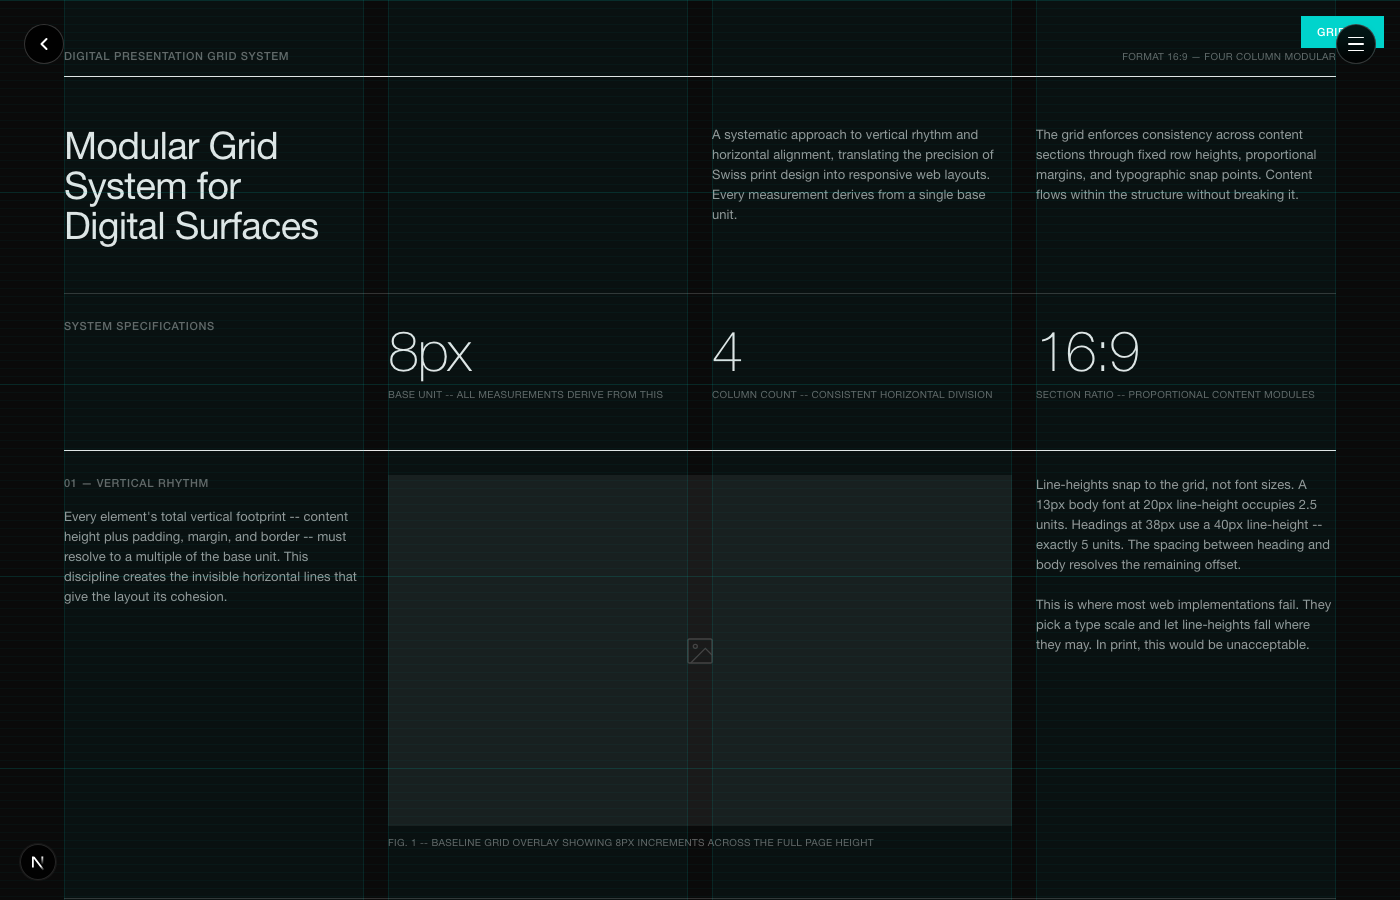
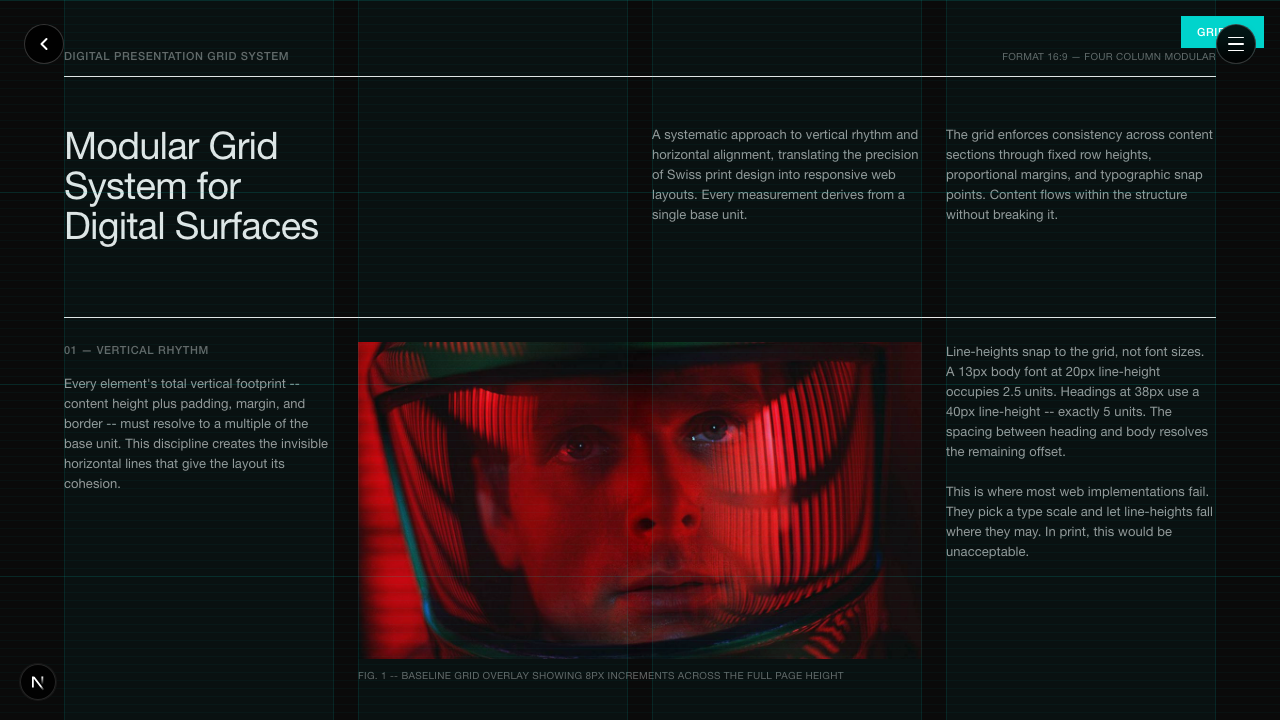
Add real images to Modular Grid experiment
Replace all placeholder SVG icons with cinematic photography from image
library. Astronaut helmet (red glow) as hero, astronaut face (light streaks)
and Blade Runner eye reflection for landscape slots, Blade Runner woman,
colored lighting profile, and red silhouette for portrait slots. Retake
gallery thumbnail screenshot to reflect the updated design.

diff --git a/app/design-experiments/modular-grid/page.tsx b/app/design-experiments/modular-grid/page.tsx
@@ -45,8 +45,6 @@ const C = {
   textMuted: '#666',
   divider: '#e8e8e8',
   dividerSubtle: '#333',
-  placeholder: '#1a1a1a',
-  placeholderStroke: '#444',
   accent: '#00d4cc',
   gridColumn: 'rgba(0, 212, 204, 0.04)',
   gridColumnBorder: 'rgba(0, 212, 204, 0.1)',
@@ -194,46 +192,6 @@ const Spacer = ({ units = 3, span = 4 }: { units?: number; span?: number }) => {
   return <div style={{ gridColumn: `span ${col(span, columns)}`, height: u(units) }} />
 }
 
-const ImagePlaceholder = ({
-  aspectRatio = '4/3',
-  height,
-  span = 1,
-  caption,
-  style,
-}: {
-  aspectRatio?: string
-  height?: number
-  span?: number
-  caption?: string
-  style?: React.CSSProperties
-}) => {
-  const { columns } = useGrid()
-  return (
-    <div style={{ gridColumn: `span ${col(span, columns)}`, ...style }}>
-      <div
-        style={{
-          width: '100%',
-          ...(height ? { height } : { aspectRatio }),
-          background: C.placeholder,
-          display: 'flex',
-          alignItems: 'center',
-          justifyContent: 'center',
-        }}
-      >
-        <svg width="32" height="32" viewBox="0 0 24 24" fill="none" stroke={C.placeholderStroke} strokeWidth="1">
-          <rect x="3" y="3" width="18" height="18" rx="1" />
-          <circle cx="8.5" cy="8.5" r="1.5" />
-          <path d="M21 15l-5-5L5 21" />
-        </svg>
-      </div>
-      {caption && (
-        <p style={{ ...TYPE.caption, fontFamily: FONT.body, color: C.textMuted, marginTop: u(1), marginBottom: 0 }}>
-          {caption}
-        </p>
-      )}
-    </div>
-  )
-}
 
 // Helper: responsive span for inline gridColumn styles
 function Span({ n, children, style }: { n: number; children: React.ReactNode; style?: React.CSSProperties }) {
@@ -377,11 +335,18 @@ export default function ModularGridSystem() {
                   that give the layout its cohesion.
                 </p>
               </SectionLabel>
-              <ImagePlaceholder
-                span={2}
-                aspectRatio="16/9"
-                caption="Fig. 1 -- Baseline grid overlay showing 8px increments across the full page height"
-              />
+              <div style={{ gridColumn: `span ${col(2, gridConfig.columns)}` }}>
+                <div style={{ width: '100%', aspectRatio: '16/9', overflow: 'hidden' }}>
+                  <img
+                    src="/images/astronaut-helmet-red-glow.jpg"
+                    alt="Astronaut helmet with red glow"
+                    style={{ width: '100%', height: '100%', objectFit: 'cover', display: 'block' }}
+                  />
+                </div>
+                <p style={{ ...TYPE.caption, fontFamily: FONT.body, color: C.textMuted, marginTop: u(1), marginBottom: 0 }}>
+                  Fig. 1 -- Baseline grid overlay showing 8px increments across the full page height
+                </p>
+              </div>
               <Span n={gridConfig.columns === 2 ? 2 : 1} style={{ marginTop: gridConfig.columns === 2 ? u(3) : 0 }}>
                 <p style={{ ...TYPE.body, fontFamily: FONT.body, margin: 0, color: C.textSecondary }}>
                   Line-heights snap to the grid, not font sizes. A 13px body font at 20px line-height
@@ -493,28 +458,47 @@ export default function ModularGridSystem() {
                   Captions use the smallest type size in the system and align to the same baseline.
                 </p>
               </SectionLabel>
-              <ImagePlaceholder
-                span={1}
-                height={gridConfig.columns === 2 ? undefined : u(24)}
-                aspectRatio="16/9"
-                caption="Fig. 2 -- Single column, fixed height"
-              />
-              <ImagePlaceholder
-                span={gridConfig.columns === 2 ? 1 : 2}
-                height={gridConfig.columns === 2 ? undefined : u(24)}
-                aspectRatio="16/9"
-                caption="Fig. 3 -- Two columns, same fixed height"
-              />
+              <div style={{ gridColumn: `span ${col(1, gridConfig.columns)}` }}>
+                <div style={{ width: '100%', ...(gridConfig.columns === 2 ? { aspectRatio: '16/9' } : { height: u(24) }), overflow: 'hidden' }}>
+                  <img src="/images/astronaut-face-light-streaks.jpg" alt="Astronaut face with prismatic light streaks" style={{ width: '100%', height: '100%', objectFit: 'cover', display: 'block' }} />
+                </div>
+                <p style={{ ...TYPE.caption, fontFamily: FONT.body, color: C.textMuted, marginTop: u(1), marginBottom: 0 }}>
+                  Fig. 2 -- Single column, fixed height
+                </p>
+              </div>
+              <div style={{ gridColumn: `span ${col(gridConfig.columns === 2 ? 1 : 2, gridConfig.columns)}` }}>
+                <div style={{ width: '100%', ...(gridConfig.columns === 2 ? { aspectRatio: '16/9' } : { height: u(24) }), overflow: 'hidden' }}>
+                  <img src="/images/blade-runner-eye-reflection.jpg" alt="Blade Runner eye with galaxy reflection" style={{ width: '100%', height: '100%', objectFit: 'cover', display: 'block' }} />
+                </div>
+                <p style={{ ...TYPE.caption, fontFamily: FONT.body, color: C.textMuted, marginTop: u(1), marginBottom: 0 }}>
+                  Fig. 3 -- Two columns, same fixed height
+                </p>
+              </div>
             </Grid>
           </Section>
 
           <Section style={{ paddingTop: u(3) }}>
             <Grid>
               <Spacer span={1} units={0} />
-              <ImagePlaceholder span={1} aspectRatio="3/4" caption="Fig. 4 -- Portrait" />
-              <ImagePlaceholder span={1} aspectRatio="3/4" caption="Fig. 5 -- Portrait" />
+              <div style={{ gridColumn: 'span 1' }}>
+                <div style={{ width: '100%', aspectRatio: '3/4', overflow: 'hidden' }}>
+                  <img src="/images/blade-runner-woman-portrait.jpg" alt="Blade Runner woman portrait" style={{ width: '100%', height: '100%', objectFit: 'cover', display: 'block' }} />
+                </div>
+                <p style={{ ...TYPE.caption, fontFamily: FONT.body, color: C.textMuted, marginTop: u(1), marginBottom: 0 }}>Fig. 4 -- Portrait</p>
+              </div>
+              <div style={{ gridColumn: 'span 1' }}>
+                <div style={{ width: '100%', aspectRatio: '3/4', overflow: 'hidden' }}>
+                  <img src="/images/man-profile-colored-lighting.jpeg" alt="Man profile in colored lighting" style={{ width: '100%', height: '100%', objectFit: 'cover', display: 'block' }} />
+                </div>
+                <p style={{ ...TYPE.caption, fontFamily: FONT.body, color: C.textMuted, marginTop: u(1), marginBottom: 0 }}>Fig. 5 -- Portrait</p>
+              </div>
               {gridConfig.columns > 2 && (
-                <ImagePlaceholder span={1} aspectRatio="3/4" caption="Fig. 6 -- Portrait" />
+                <div style={{ gridColumn: 'span 1' }}>
+                  <div style={{ width: '100%', aspectRatio: '3/4', overflow: 'hidden' }}>
+                    <img src="/images/woman-red-background-silhouette.jpeg" alt="Woman silhouette on red background" style={{ width: '100%', height: '100%', objectFit: 'cover', display: 'block' }} />
+                  </div>
+                  <p style={{ ...TYPE.caption, fontFamily: FONT.body, color: C.textMuted, marginTop: u(1), marginBottom: 0 }}>Fig. 6 -- Portrait</p>
+                </div>
               )}
             </Grid>
           </Section>
